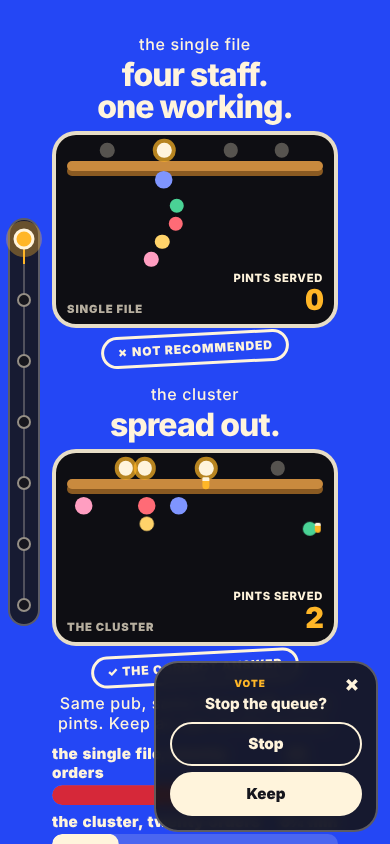
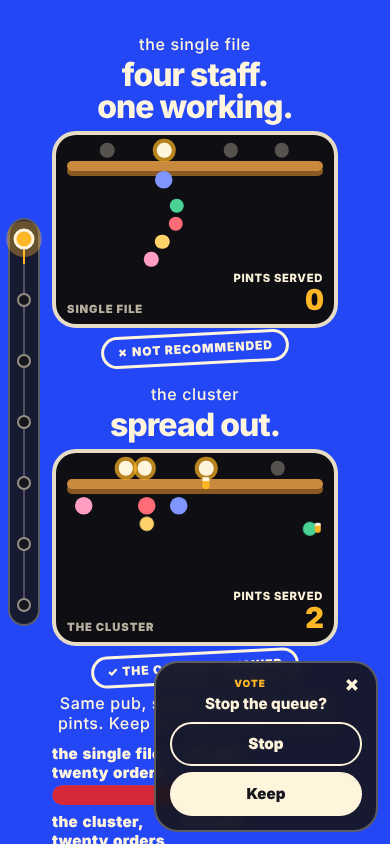
Apply the six fixes from the Round 3 sign-off
Claude-Session: https://claude.ai/code/session_01JcLbNkaqvT6axprLM37jkz

Changed region(s): [[0.1231, 0.955, 0.8615, 1.0], [0.1231, 0.8934, 0.4, 0.9242]]

diff --git a/public/prototypes/history.html b/public/prototypes/history.html
@@ -48,14 +48,14 @@
 
   <!-- THE VOTE PILL: fixed right (desktop) or a collapsed pill bottom right (phones).
        proto.js owns it with the poll screen: one state, one GET /api/poll, one cookie. -->
-  <form class="vote" id="vote-pill" method="post" action="/api/poll" data-state="loading"
+  <form class="vote" id="vote-pill" method="post" action="/api/poll" data-state="loading" data-home="/prototypes/home.html"
         aria-label="Poll: stop the queue at the bar? One vote per browser.">
     <button type="button" class="vote-toggle" aria-expanded="false" aria-controls="vote-panel">Vote</button>
     <div class="vote-panel" id="vote-panel">
       <button type="button" class="vote-close" aria-label="Hide this">×</button>
       <p class="vote-kicker"><span class="vote-kicker-d" data-part="kicker">vote</span><span class="vote-kicker-m" data-part="kicker-m"></span></p>
       <fieldset data-part="ask">
-        <legend class="vote-q">Stop the queue?</legend>
+        <legend class="vote-q" tabindex="-1">Stop the queue?</legend>
         <button type="submit" name="choice" value="cluster" class="vote-btn">Stop</button>
         <button type="submit" name="choice" value="single" class="vote-btn">Keep</button>
       </fieldset>
@@ -64,8 +64,8 @@
         <span class="vote-row" data-side="cluster">stop <b class="pc"></b> <span class="you" hidden>you</span><i></i></span>
         <span class="vote-row" data-side="single">keep <b class="pc"></b> <span class="you" hidden>you</span><i></i></span>
       </div>
-      <a class="vote-btn vote-next" data-part="next" href="#petition-section" hidden>Sign the petition</a>
-      <a class="vote-link vote-more" data-part="more" href="#poll" hidden>full result ↓</a>
+      <a class="vote-btn vote-next" data-part="next" href="/prototypes/home.html#petition-section" hidden>Sign the petition</a>
+      <a class="vote-link vote-more" data-part="more" href="/prototypes/home.html#poll" hidden>full result ↓</a>
       <p class="sr-only" data-part="live" aria-live="polite"></p>
     </div>
   </form>
@@ -273,8 +273,8 @@
       </div>
       <div class="hist-q">
         <h3>Do most people prefer queueing at the bar?</h3>
-        <p>Depends who asks. YouGov, September 2025: single file 40%, along the bar 39%, don’t know 21%. A trade survey for Zonal and CGA, December 2025: along the bar 69%, a line 31%.</p>
-        <p class="src"><a href="https://yougov.co.uk/topics/consumer/survey-results/daily/2025/09/18/59cc2/3" rel="noopener">YouGov, 18 Sep 2025, 5,914 GB adults</a> · Zonal and CGA by NIQ, GO Technology, Dec 2025, 5,000 consumers</p>
+        <p>Depends who asks. YouGov, September 2025: single file 40%, along the bar 39%, don’t know 21%.</p>
+        <p class="src"><a href="https://yougov.co.uk/topics/consumer/survey-results/daily/2025/09/18/59cc2/3" rel="noopener">YouGov, 18 Sep 2025, 5,914 GB adults</a></p>
       </div>
       <div class="hist-q">
         <h3>Is it rude to go to the bar when there’s a queue?</h3>
@@ -379,7 +379,7 @@
      "name": "Do most people prefer queueing at the bar?",
      "acceptedAnswer": {
       "@type": "Answer",
-      "text": "Depends who asks. YouGov, September 2025: single file 40%, along the bar 39%, don’t know 21%. A trade survey for Zonal and CGA, December 2025: along the bar 69%, a line 31%."
+      "text": "Depends who asks. YouGov, September 2025: single file 40%, along the bar 39%, don’t know 21%."
      }
     },
     {

diff --git a/public/prototypes/proto.css b/public/prototypes/proto.css
@@ -104,6 +104,11 @@
   .verdict .scene { width: 100%; }
   .verdict-col + .verdict-col > .small { margin-top: 1.2em; }
 }
+/* The collapsed vote pill sits bottom right; the bar figures keep out of its column. */
+@media (max-width: 600px) {
+  .verdict .bar-row .label { padding-right: 96px; }
+  .verdict .bar-row .label span:last-child { white-space: nowrap; } /* the figure stays on one line; the name wraps */
+}
 @media (max-width: 600px) {
   .verdict-head { font-size: 8.2vw; }
 }
@@ -175,6 +180,7 @@ html:not(.js) .vote { display: none; }
   line-height: 1.15;
   text-wrap: balance;
 }
+.vote-q:focus { outline: none; } /* focused by script when the phone pill opens, never by the keyboard */
 
 .vote-btn {
   display: block;
@@ -300,7 +306,8 @@ html:not(.js) .vote { display: none; }
   .vote.open .vote-btn { font-size: 0.95rem; min-height: 44px; }
   .vote.open .vote-kicker { padding-right: 32px; }
 
-  /* The voted and not-counted pills: compact, the tally hidden, the next step as the pill */
+  /* The voted and not-counted pills: compact, the rows hidden (the voter's own figure is in
+     the kicker, "stop 71%"), the next step as the pill */
   .vote[data-state^="voted"], .vote[data-state="notcounted"] { padding: 8px 12px 10px; border-radius: 22px; width: auto; }
   .vote[data-state^="voted"] .vote-toggle, .vote[data-state="notcounted"] .vote-toggle { display: none; }
   .vote[data-state^="voted"] .vote-rows, .vote[data-state^="voted"] .vote-more { display: none !important; }
@@ -465,6 +472,10 @@ html:not(.js) .vote { display: none; }
 }
 .hist-stop .sticker { --i: 0; }
 .js .hist-stop.reveal.in .sticker { animation: slap 0.45s cubic-bezier(.2, .8, .2, 1) backwards 0.15s; }
+/* After the slap rule, so it wins at equal specificity, as styles.css does for the strip. */
+@media (prefers-reduced-motion: reduce) {
+  .js .hist-stop.reveal.in .sticker { animation: none; }
+}
 
 .hist-card { grid-template-columns: minmax(0, 1fr); }
 .hist-card h2 {

diff --git a/public/prototypes/proto.js b/public/prototypes/proto.js
@@ -258,6 +258,11 @@
     const live = part('live');
     const toggle = pill.querySelector('.vote-toggle');
     const close = pill.querySelector('.vote-close');
+    const question = pill.querySelector('.vote-q');
+    // A page without the poll and petition sections (the history page) says where they live:
+    // data-home="/prototypes/home.html" here, "/" at merge.
+    const home = pill.dataset.home || '';
+    const resolve = (href) => (href.startsWith('#') ? home + href : href);
 
     const setKicker = (text) => {
       kickerD.textContent = text;
@@ -294,13 +299,15 @@
           const onRecord = s === 'voted' ? data.choice : state.last?.choice;
           if (onRecord && NEXT[onRecord]) {
             next.textContent = NEXT[onRecord].text;
-            next.setAttribute('href', NEXT[onRecord].href);
+            next.setAttribute('href', resolve(NEXT[onRecord].href));
             next.hidden = false;
           }
+          more.setAttribute('href', resolve('#poll'));
           more.hidden = false;
           if (s === 'voted') {
             setKicker(`you voted ${SIDE[data.choice]}`);
-            kickerM.textContent = 'make it count.';
+            // The phone pill hides the rows, so its kicker carries the voter's own figure.
+            kickerM.textContent = `${SIDE[data.choice]} ${t.pc[data.choice]}%`;
             more.textContent = 'full result ↓';
             live.textContent = `Stop ${t.pc.cluster}%, keep ${t.pc.single}%. You voted ${SIDE[data.choice]}.`;
           } else {
@@ -324,10 +331,11 @@
     });
 
     // Phones: the collapsed pill opens in place; × or Escape closes it.
+    // Focus goes to the question, never a vote button: a second Enter must not vote a side.
     const open = () => {
       pill.classList.add('open');
       toggle.setAttribute('aria-expanded', 'true');
-      buttons[0]?.focus();
+      (question || close).focus();
     };
     const shut = () => {
       pill.classList.remove('open');

diff --git a/public/prototypes/home-alt.html b/public/prototypes/home-alt.html
@@ -70,7 +70,7 @@
       <button type="button" class="vote-close" aria-label="Hide this">×</button>
       <p class="vote-kicker"><span class="vote-kicker-d" data-part="kicker">vote</span><span class="vote-kicker-m" data-part="kicker-m"></span></p>
       <fieldset data-part="ask">
-        <legend class="vote-q">Stop the queue?</legend>
+        <legend class="vote-q" tabindex="-1">Stop the queue?</legend>
         <button type="submit" name="choice" value="cluster" class="vote-btn">Stop</button>
         <button type="submit" name="choice" value="single" class="vote-btn">Keep</button>
       </fieldset>

diff --git a/public/prototypes/home.html b/public/prototypes/home.html
@@ -69,7 +69,7 @@
       <button type="button" class="vote-close" aria-label="Hide this">×</button>
       <p class="vote-kicker"><span class="vote-kicker-d" data-part="kicker">vote</span><span class="vote-kicker-m" data-part="kicker-m"></span></p>
       <fieldset data-part="ask">
-        <legend class="vote-q">Stop the queue?</legend>
+        <legend class="vote-q" tabindex="-1">Stop the queue?</legend>
         <button type="submit" name="choice" value="cluster" class="vote-btn">Stop</button>
         <button type="submit" name="choice" value="single" class="vote-btn">Keep</button>
       </fieldset>

diff --git a/review/homepage/round-3/design.md b/review/homepage/round-3/design.md
@@ -60,3 +60,16 @@ The verdict at 1366×768: 797px, the stamp's bottom at 766px, in view. The live 
 ## Renders
 
 `home-1280-fold.png`, `home-390-fold.png`, `home-1280-full.png`, `home-390-full.png` and the same four for `home-alt`; `home-verdict-1280.png`, `home-verdict-1366.png`, `home-verdict-1280-reduced-motion.png`; `home-alt-problem-1280.png`, `home-alt-solution-1280.png`; `home-poll-1280.png`, `home-petition-section-1280.png`, `home-history-1280.png`, `home-pubs-1280.png`; `home-hero-count-1280.png` (the count stubbed at 12,345), `home-door-focus-1280.png`; `pill-vote.png`, `pill-posting.png`, `pill-voted-stop.png`, `pill-voted-keep.png`, `pill-returning-voter.png`, `pill-notcounted.png`, `pill-signed.png` (no pill), `pill-focus.png`; `pill-phone-collapsed.png`, `pill-phone-open.png`, `pill-phone-voted.png`, `home-howto-390-pill.png`; `history-1280-fold.png`, `history-1280-full.png`, `history-390-full.png`; `measurements.json`.
+
+## Fixes after sign-off
+
+From `round-3/marketing.md` (four fails, two notes). Edited in the working tree only; the copywriter's committed edits are untouched.
+
+1. **The pill's links on `/history`** pointed at `#petition-section` and `#poll`, which don't exist there. `history.html` line 51: the pill form gets `data-home="/prototypes/home.html"`; lines 67–68: the static hrefs become `/prototypes/home.html#petition-section` and `/prototypes/home.html#poll`. `proto.js` line 265: `resolve()` prefixes any `#…` target with `data-home`, and the "full result ↓" link now gets its href from the same routine (line 313). At merge `data-home` becomes `/`, so the links become `/#petition-section` and `/#poll`. The trailer's own CTA already pointed at the home prototype.
+2. **The phone pill no longer focuses the Stop button on open.** `proto.js` lines 335–338: `open()` focuses the question (`<legend class="vote-q" tabindex="-1">`, `history.html` line 58, `home.html` line 72, `home-alt.html` line 73; `.vote-q:focus { outline: none }` at `proto.css` line 182). Verified: Enter straight after opening leaves the state at `vote`.
+3. **The sticker slap is off under reduced motion.** `proto.css` lines 474–476: a `prefers-reduced-motion` block placed after the slap rule at line 473, so it wins at equal specificity, as `styles.css` does for the strip. Verified: `animation-name: none` with reduced motion on. (A first attempt inside the pill's reduced-motion block was overridden by the later slap rule; moved.)
+4. **The Zonal/CGA sentence is cut** from question 3 (`history.html` line 276), its source line (line 277) and the JSON-LD `acceptedAnswer` (line 382); the visible text and the JSON-LD are identical. The page's footer sources line never named Zonal. Note for copy: the answer now opens "Depends who asks." with one survey after it; left as written, flagged.
+5. **The phone pill no longer covers "6¼ min".** `proto.css` lines 109–110: on phones the verdict's bar labels get `padding-right: 96px`, a gutter for the pill's column, and the figure span is `white-space: nowrap` so "25 min" and "6¼ min" stay on one line while the name wraps. Measured at 390×844 at the verdict's resting scroll: both figures' right edges at 242px, the collapsed pill's left edge at 295px. Known limit: the voted pill is wider (about 176px, "stop 71%" over "Sign the petition") and at that same scroll it reaches over the first bar's "25 min"; by then the visitor has voted from this screen, and a fixed element on a 390px screen always sits on something.
+6. **The phone voted pill shows the voter's figure.** `proto.js` line 310: the phone kicker reads "stop 71%" or "keep 29%" (the voter's side) in place of "Make it count.", above the one next-step button; the not-counted kicker stays "not counted". The desktop pill is unchanged.
+
+Re-rendered: `pill-phone-collapsed.png`, `pill-phone-open.png`, `pill-phone-voted.png`, `history-1280-fold.png`, and the new `history-1280-reduced-motion.png`. `node --check proto.js` passes; the gender grep is clean.
